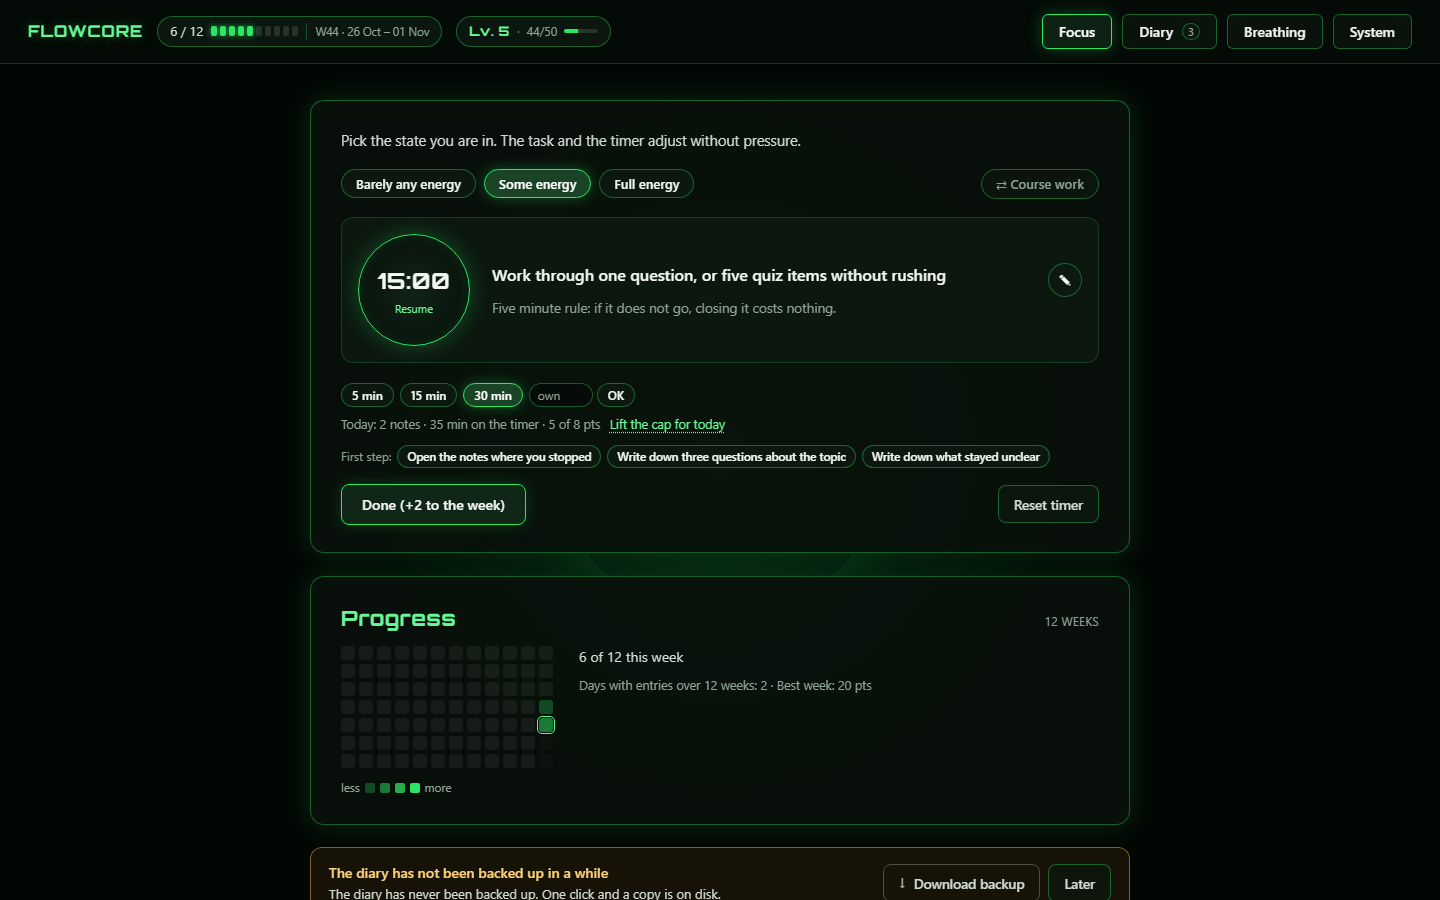
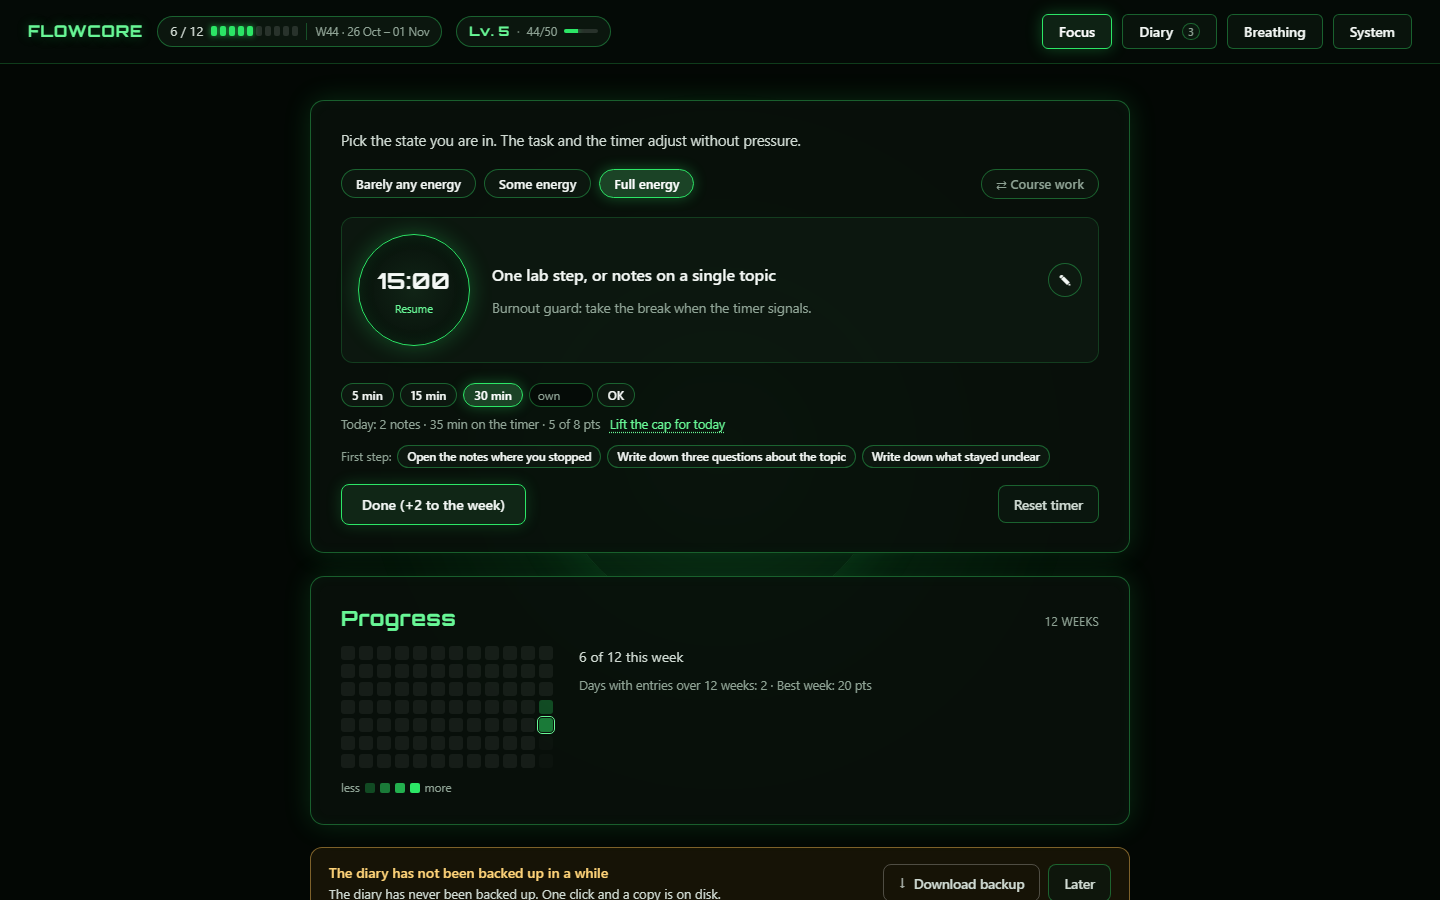
docs(flowcore): the READMEs tie each energy level to its length
Both languages say that a level starts the timer at the length that buys its
price (5, 15, 30 minutes), the intro no longer promises a five-minute first
step that the default level does not offer, and the phone paragraph stops
quoting a fixed "5 min" summary. The shots come from this build: full energy,
a thirty-minute session halfway through, two points already earned.

Changed region(s): [[0.3438, 0.28, 0.6562, 0.3733], [0.3125, 0.1867, 0.5, 0.2489], [0.5312, 0.3422, 0.5625, 0.3733]]

diff --git a/README.ru.md b/README.ru.md
@@ -8,7 +8,7 @@
 
 *English version: [README.md](README.md).*
 
-Выбери сферу, скажи, сколько сегодня сил, и сделай один пятиминутный шаг. Очки копятся на неделю, пропущенный день ничего не отнимает, а ранний стоп считается отдыхом, а не провалом. Всё приложение — один HTML-файл на 340 КБ: без сборки, сервера и зависимостей.
+Выбери сферу, скажи, сколько сегодня сил, и сделай один короткий шаг. Очки копятся на неделю, пропущенный день ничего не отнимает, а ранний стоп считается отдыхом, а не провалом. Всё приложение — один HTML-файл на 340 КБ: без сборки, сервера и зависимостей.
 
 ## Что умеет
 
@@ -19,7 +19,7 @@
 - Пропущенный день ничего не стоит: очки живут на неделе, а не на дне.
 - Дневник остаётся в браузере: без аккаунта, без сервера, работает офлайн.
 
-**Три режима по силам.** «Совсем мало сил», «Немного сил», «Полные силы». Режим выбирает, какая задача перед глазами и на сколько поставить таймер; очки он больше не решает. Для каждой сферы свои задачи под каждый режим — не нужно придумывать формулировку заново.
+**Три режима по силам.** «Совсем мало сил», «Немного сил», «Полные силы». Режим выбирает задачу и ставит таймер на длину, которая стоит его цены: 5, 15 и 30 минут. Для каждой сферы свои задачи под каждый режим — не нужно придумывать формулировку заново.
 
 **Очки — это подтверждённое время, а не выбранное настроение.** Отрезок даёт одно очко за каждые десять минут с округлением: 5–14 минут — 1, 15–24 — 2, 25 и больше — 3, и час всё равно 3. Короче пяти минут — ноль, так что правило пяти минут остаётся с наградой. Кнопка называет сумму до нажатия: цену задаёт таймер, а не выпадающий список.
 
@@ -29,7 +29,7 @@
 
 **Быстрая пометка в дневнике и маленький значок в каждой строке.** Шесть чипов — рабочий шаг, вовремя остановился, туман или усталость, ком в груди, поверхностное дыхание, хороший фокус — пишут запись одним тапом и сразу со своим типом, чтобы отчёт для врача не путал шаги, телесные сигналы и ранние остановки. У каждой строки есть маленький значок типа (шаг, сигнал, остановка, заметка), если у записи нет своего эмодзи. Отдельная карточка «Своими словами» убрана: она делала ту же работу, что этот блок, но платила за то же действие по-другому, а писать в одном месте достаточно.
 
-**На телефоне — две сводки.** Ряд длительностей таймера и три чипа первого шага живут за кнопками «5 мин ▾» и «Первый шаг ▾»: раскрываются на месте, закрываются после выбора, а сводка держит текущее значение. Цели касания выросли до 40 px, главное действие — до 44, чтобы в плохой день не приходилось прицеливаться. Сами четыре раздела переехали в полосу высотой 54 px внизу, текущий отмечен линией: шапка больше не липнет к верху, а новый раздел открывается с начала. У вкладки дневника не цифра, а точка: она загорается, только когда с прошлого захода туда что-то записалось, и гаснет, как только дневник открыт.
+**На телефоне — две сводки.** Ряд длительностей таймера и три чипа первого шага живут за кнопкой с текущей длительностью и «Первый шаг ▾»: раскрываются на месте, закрываются после выбора, а сводка держит текущее значение. Цели касания выросли до 40 px, главное действие — до 44, чтобы в плохой день не приходилось прицеливаться. Сами четыре раздела переехали в полосу высотой 54 px внизу, текущий отмечен линией: шапка больше не липнет к верху, а новый раздел открывается с начала. У вкладки дневника не цифра, а точка: она загорается, только когда с прошлого захода туда что-то записалось, и гаснет, как только дневник открыт.
 
 **Мост после остановки.** Если остановился вчера — сверху появляется «вчера остановился на: …» и кнопка «начать 5 минут с этого места». Возврат в работу не требует вспоминать, где ты был.
 
@@ -120,7 +120,7 @@ python serve.py --lan      # доступ в домашней сети по http
 node tests/run.js
 ```
 
-Сейчас **480 проверок**: недельный ролловер и архив, миграция старых бэкапов, замок, очки за подтверждённое время, дневной потолок и его снятие на день, уровень и скины, резерв, бонус отдыха, быстрые чипы и их типы, значок типа в строках дневника, сводки на телефоне, заметка к задаче и набор эмодзи, методики дыхания и фазы, шум с общим выключателем звука, экспорт в Markdown, редактор сфер, интервью первого запуска, словарь на четыре языка (все ключи из разметки и кода на месте, склонения через `Intl.PluralRules`). Тесты вырезают скрипт из настоящего `flowcore.html`, поэтому проверяют именно тот файл, который открывает браузер.
+Сейчас **488 проверок**: недельный ролловер и архив, миграция старых бэкапов, замок, очки за подтверждённое время, дневной потолок и его снятие на день, уровень и скины, резерв, бонус отдыха, быстрые чипы и их типы, значок типа в строках дневника, сводки на телефоне, заметка к задаче и набор эмодзи, методики дыхания и фазы, шум с общим выключателем звука, экспорт в Markdown, редактор сфер, интервью первого запуска, словарь на четыре языка (все ключи из разметки и кода на месте, склонения через `Intl.PluralRules`). Тесты вырезают скрипт из настоящего `flowcore.html`, поэтому проверяют именно тот файл, который открывает браузер.
 
 Те же проверки запускаются на GitHub Actions при каждом push и pull request — файл `.github/workflows/tests.yml`. Сборки нет, поэтому шагов всего три: checkout, Node, `node tests/run.js`.
 

diff --git a/README.md b/README.md
@@ -8,7 +8,7 @@
 
 *Русская версия: [README.ru.md](README.ru.md).*
 
-Pick one of your areas, say how much energy you have today, and do a single five-minute step. Points collect over the week, a missed day takes nothing away, and an early stop counts as rest, not as failure. The whole app is one 340 KB HTML file: no build, no server, no dependencies.
+Pick one of your areas, say how much energy you have today, and do a single short step. Points collect over the week, a missed day takes nothing away, and an early stop counts as rest, not as failure. The whole app is one 340 KB HTML file: no build, no server, no dependencies.
 
 ## What it does
 
@@ -19,7 +19,7 @@ If you are in a hurry:
 - A missed day costs nothing: points live on the week, not the day.
 - Your diary stays in the browser: no account, no server, works offline.
 
-**Three levels of energy.** Barely any, some, full. The level picks which task is in front of you and how long the timer starts; it no longer decides the points. Every area keeps its own task for each level, so you never invent the wording again.
+**Three levels of energy.** Barely any, some, full. The level picks the task and starts the timer at the length that buys its price: 5, 15 and 30 minutes. Every area keeps its own task for each level, so you never invent the wording again.
 
 **Points are the time you confirm, not the mood you picked.** A confirmed stretch gives one point for every ten minutes, rounded: 5–14 minutes give 1, 15–24 give 2, 25 and more give 3, and an hour is still 3. Under five minutes gives nothing, so the five-minute rule keeps its own reward. The button says the amount before you press it: the timer sets the price, not a dropdown.
 
@@ -29,7 +29,7 @@ If you are in a hurry:
 
 **A quick note in the diary, and a small mark on every row.** Six chips — a work step, stopped in time, fog or fatigue, tightness in the chest, shallow breathing, good focus — write an entry in one tap with its own type, so the doctor report keeps steps, body signals and early stops apart. Every row also carries a small type mark (a step, a signal, a stop, a note) whenever the entry has no emoji of its own. The separate "In your own words" card is gone: it did the same job as this block but paid differently for the same act, and one place to write is enough.
 
-**On a phone, two summary buttons.** The row of timer lengths and the three first-step chips fold behind "5 min ▾" and "First step ▾": they open in place, close after a choice, and the summary keeps the current value. Every target grows to 40 px, and the primary action to 44, so nothing has to be aimed at on a bad day. The four sections themselves move into a 54 px bar along the bottom, the current one marked by a line; the header stops sticking and a new section opens from the top. The diary tab carries a dot, not a number: it appears only when something was written since you last opened the diary, and goes out the moment you do.
+**On a phone, two summary buttons.** The row of timer lengths and the three first-step chips fold behind a button with the current length and "First step ▾": they open in place, close after a choice, and the summary keeps the current value. Every target grows to 40 px, and the primary action to 44, so nothing has to be aimed at on a bad day. The four sections themselves move into a 54 px bar along the bottom, the current one marked by a line; the header stops sticking and a new section opens from the top. The diary tab carries a dot, not a number: it appears only when something was written since you last opened the diary, and goes out the moment you do.
 
 **A bridge after stopping.** If you stopped yesterday, a line at the top says where, with one button that starts five minutes from that exact place. Coming back does not require remembering where you were.
 
@@ -120,7 +120,7 @@ On Windows, `FlowCore.cmd` does the same from a double click.
 node tests/run.js
 ```
 
-There are **480 checks**: week rollover and the archive, migration of older backups, the lock, points from confirmed time, the daily cap and lifting it for a day, level and skins, the reserve, the rest bonus, the quick chips and their types, the type mark in the diary rows, the phone summaries, the task note and its emoji set, breathing techniques and their phases, noise under the master sound switch, Markdown export, the area editor, the first-run interview, and the dictionary in four languages (every key from the markup and the code exists, plurals go through `Intl.PluralRules`). The tests cut the script out of the real `flowcore.html`, so they check the file the browser actually opens.
+There are **488 checks**: week rollover and the archive, migration of older backups, the lock, points from confirmed time, the daily cap and lifting it for a day, level and skins, the reserve, the rest bonus, the quick chips and their types, the type mark in the diary rows, the phone summaries, the task note and its emoji set, breathing techniques and their phases, noise under the master sound switch, Markdown export, the area editor, the first-run interview, and the dictionary in four languages (every key from the markup and the code exists, plurals go through `Intl.PluralRules`). The tests cut the script out of the real `flowcore.html`, so they check the file the browser actually opens.
 
 The same checks run on GitHub Actions for every push and pull request, see `.github/workflows/tests.yml`. There is no build, so the job is three steps.
 
